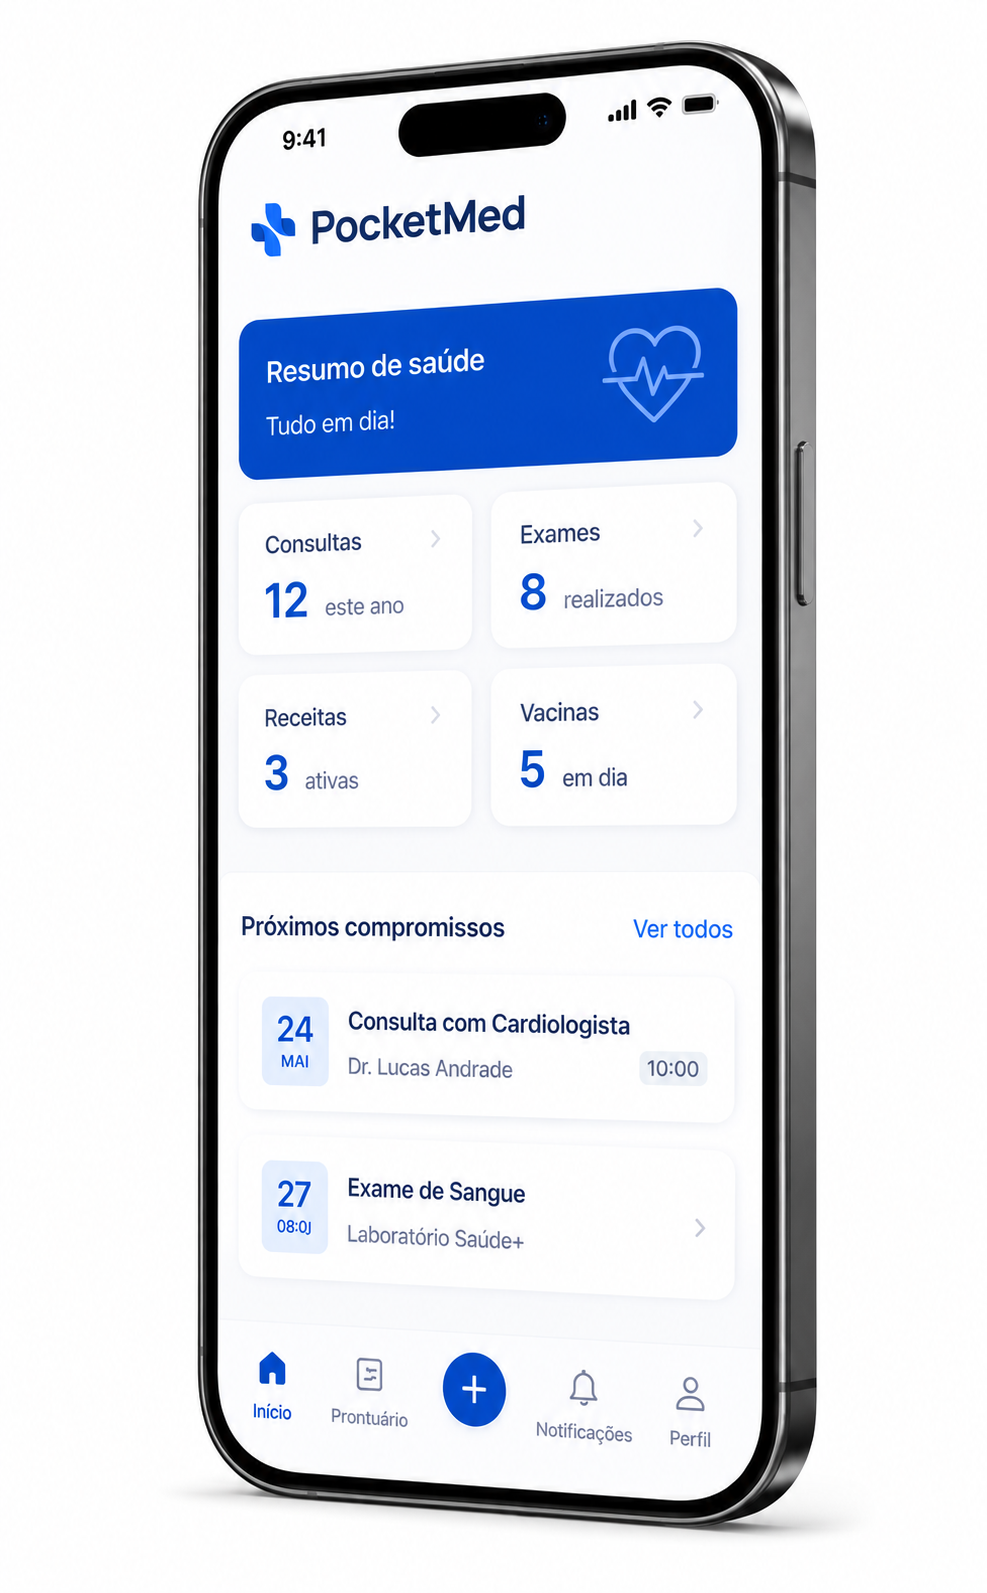
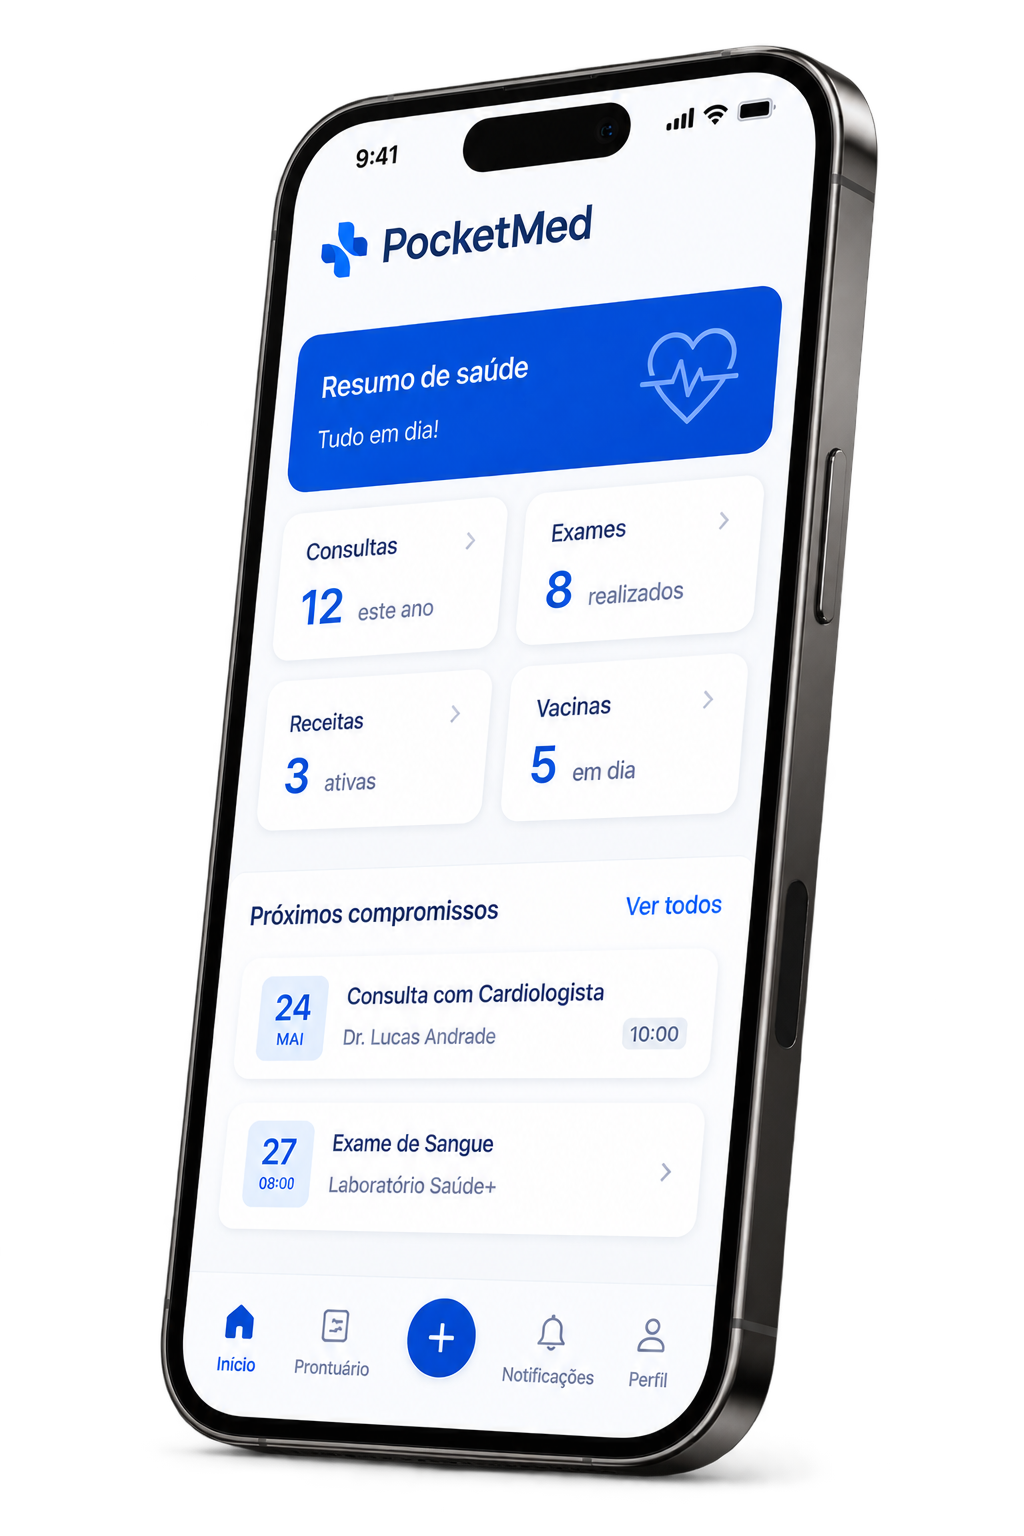
m

Changed region(s): [[0.152, 0.0, 0.8815, 0.9688], [0.5167, 0.4375, 0.6383, 0.5312], [0.2736, 0.4375, 0.3647, 0.5312]]

diff --git a/src/pages/LandingPage.tsx b/src/pages/LandingPage.tsx
@@ -15,7 +15,7 @@ import {
   Star,
 } from "lucide-react";
 import iconLogo from "../assets/images/icon.png";
-import { PhoneCarousel } from "../components/PhoneCarousel";
+import mobileImg from "../assets/images/mobile.png";
 import {
   LegalModal,
   PrivacyPolicyContent,
@@ -81,11 +81,8 @@ export default function LandingPage() {
       </header>
 
       {/* Hero */}
-      <section className="relative overflow-hidden h-[calc(100vh-73px)] max-h-[800px] flex items-center">
-        <div className="absolute inset-0 bg-gradient-to-br from-blue-50 via-white to-indigo-50/40" />
-        <div className="absolute top-20 right-0 w-[500px] h-[500px] bg-primary/5 rounded-full blur-3xl" />
-        <div className="absolute bottom-0 left-0 w-[400px] h-[400px] bg-indigo-100/50 rounded-full blur-3xl" />
-        <div className="relative max-w-6xl mx-auto px-6 py-8">
+      <section className="relative overflow-hidden h-[calc(100vh-73px)] max-h-[800px] flex items-center bg-white">
+        <div className="relative max-w-6xl mx-auto px-6 py-8 w-full">
           <div className="grid md:grid-cols-2 gap-16 items-center">
             <div>
               <div className="inline-flex items-center gap-2 bg-primary/10 text-primary px-4 py-2 rounded-full text-sm font-semibold mb-8">
@@ -120,7 +117,11 @@ export default function LandingPage() {
             </div>
             {/* Hero Visual */}
             <div className="hidden md:flex justify-center relative">
-              <PhoneCarousel />
+              <img
+                src={mobileImg}
+                alt="PocketMed App"
+                className="w-[300px] drop-shadow-2xl"
+              />
             </div>
           </div>
         </div>

diff --git a/src/pages/Institutional/Mobile.tsx b/src/pages/Institutional/Mobile.tsx
@@ -15,7 +15,7 @@ import {
 } from "lucide-react";
 import { InstitutionalFooter } from "./InstitutionalFooter";
 import { InstitutionalHeader } from "./InstitutionalHeader";
-import { PhoneCarousel } from "../../components/PhoneCarousel";
+import mobileImg from "../../assets/images/mobile.png";
 
 export default function InstitutionalMobile() {
   return (
@@ -24,9 +24,8 @@ export default function InstitutionalMobile() {
       <InstitutionalHeader currentPage="mobile" />
 
       {/* Hero */}
-      <section className="relative overflow-hidden min-h-[calc(100vh-65px)] max-h-[750px]">
-        <div className="absolute inset-0 bg-gradient-to-br from-emerald-50 via-white to-blue-50/30" />
-        <div className="relative max-w-6xl mx-auto px-4 sm:px-6 pt-4 pb-6">
+      <section className="relative overflow-hidden bg-white">
+        <div className="relative max-w-6xl mx-auto px-4 sm:px-6 py-12 sm:py-16">
           <Link
             to="/"
             className="inline-flex items-center gap-2 text-sm text-slate-500 hover:text-primary mb-4 sm:mb-6 transition-colors"
@@ -61,7 +60,11 @@ export default function InstitutionalMobile() {
               </div>
             </div>
             <div className="flex justify-center">
-              <PhoneCarousel />
+              <img
+                src={mobileImg}
+                alt="PocketMed App"
+                className="w-[260px] sm:w-[300px] drop-shadow-2xl"
+              />
             </div>
           </div>
         </div>

diff --git a/src/pages/Auth/Signup.tsx b/src/pages/Auth/Signup.tsx
@@ -240,6 +240,7 @@ function ClinicSignupForm({
 }) {
   const { registerDoctor } = useAuth();
   const [showPassword, setShowPassword] = useState(false);
+  const [legalModal, setLegalModal] = useState<"privacy" | "terms" | "security" | null>(null);
 
   const formik = useFormik({
     initialValues: {
@@ -683,6 +684,13 @@ function ClinicSignupForm({
           </button>
         </p>
       </footer>
+
+      <LegalModal open={legalModal === "privacy"} onClose={() => setLegalModal(null)} title="Política de Privacidade">
+        <PrivacyPolicyContent />
+      </LegalModal>
+      <LegalModal open={legalModal === "terms"} onClose={() => setLegalModal(null)} title="Termos de Serviço">
+        <TermsOfServiceContent />
+      </LegalModal>
     </>
   );
 }
